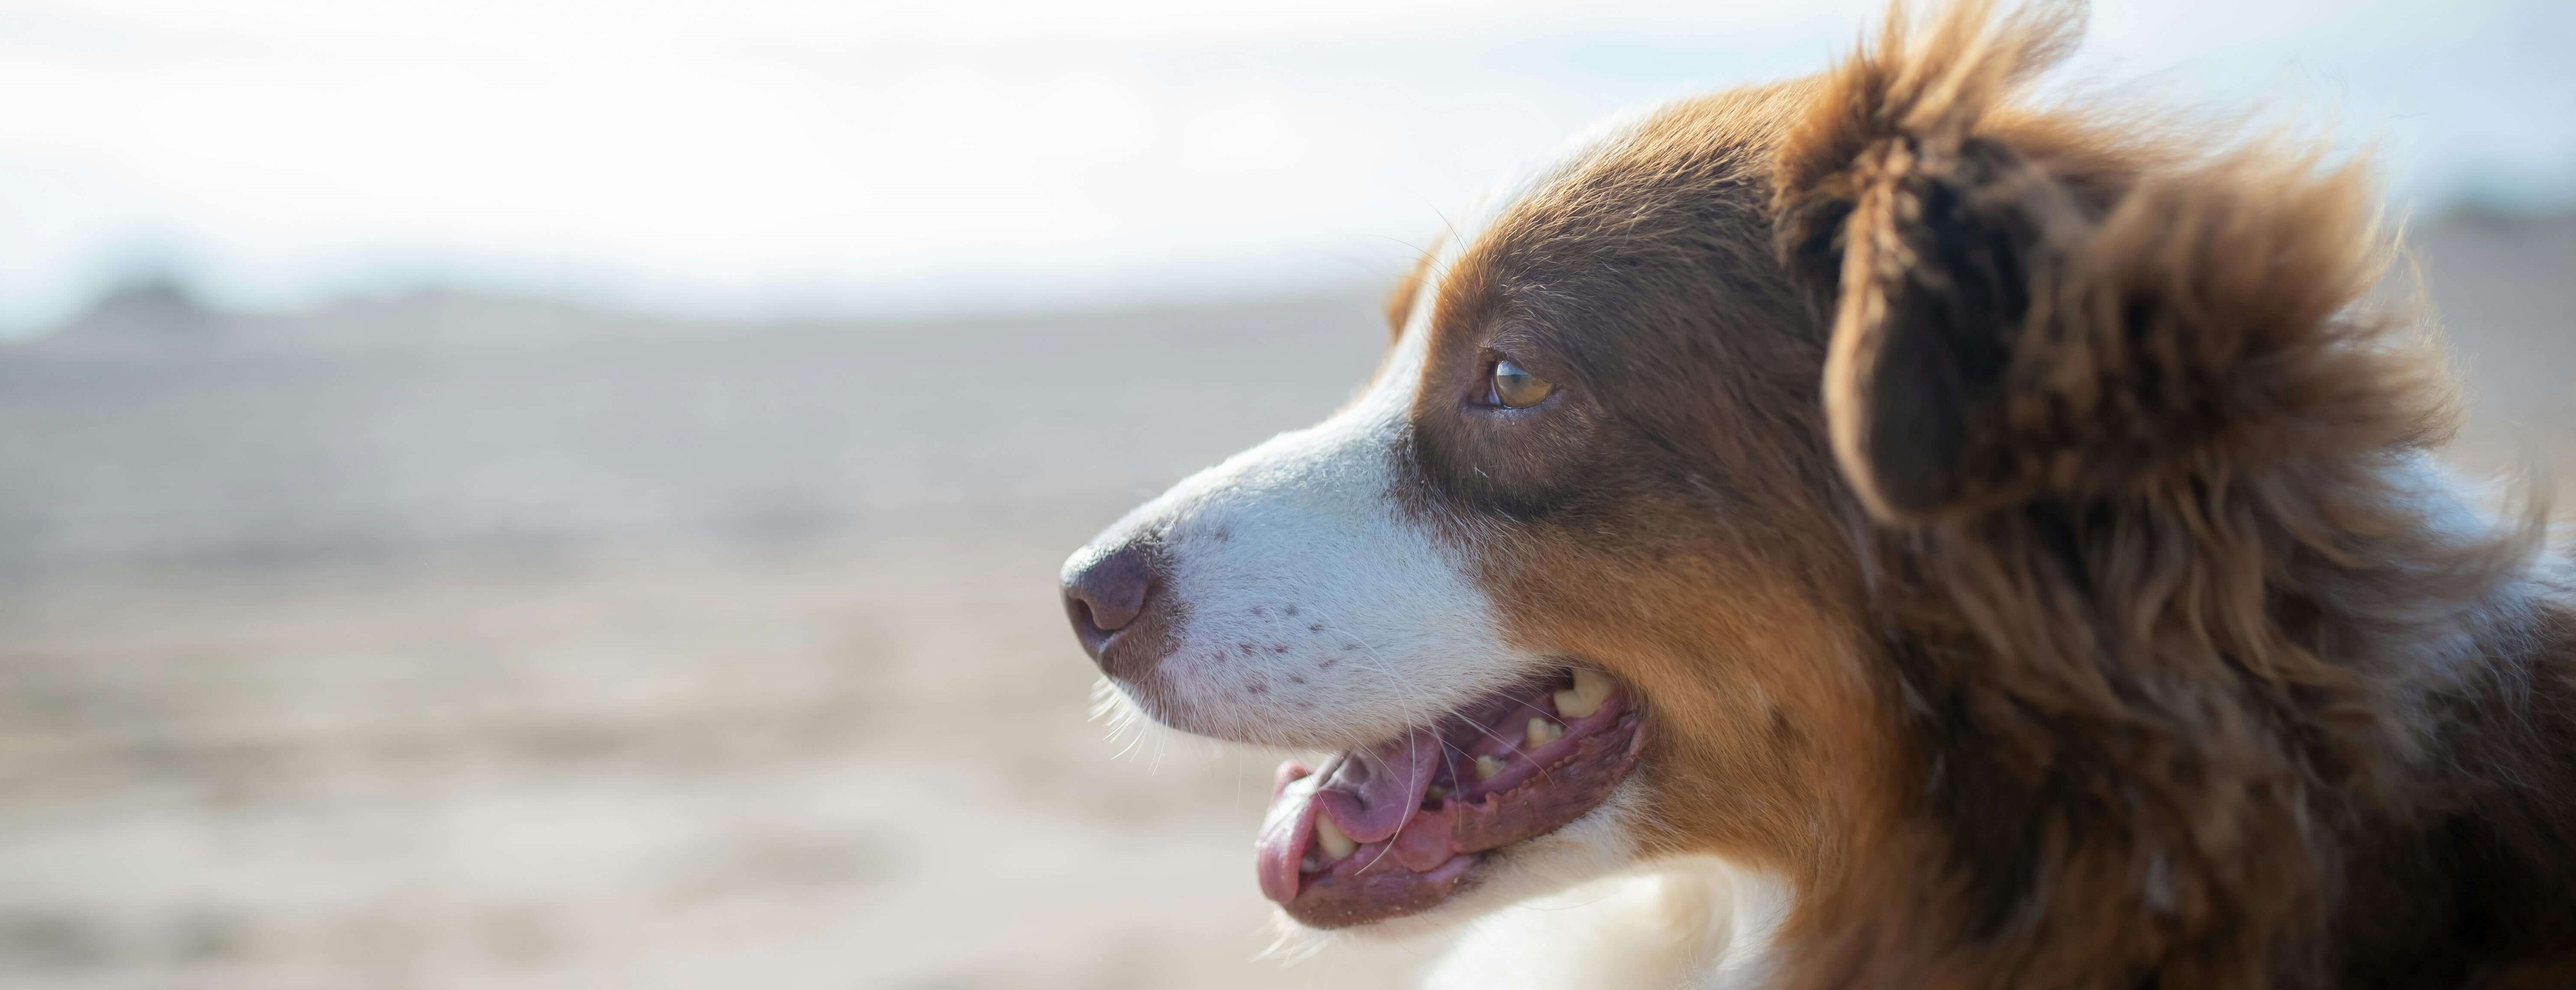
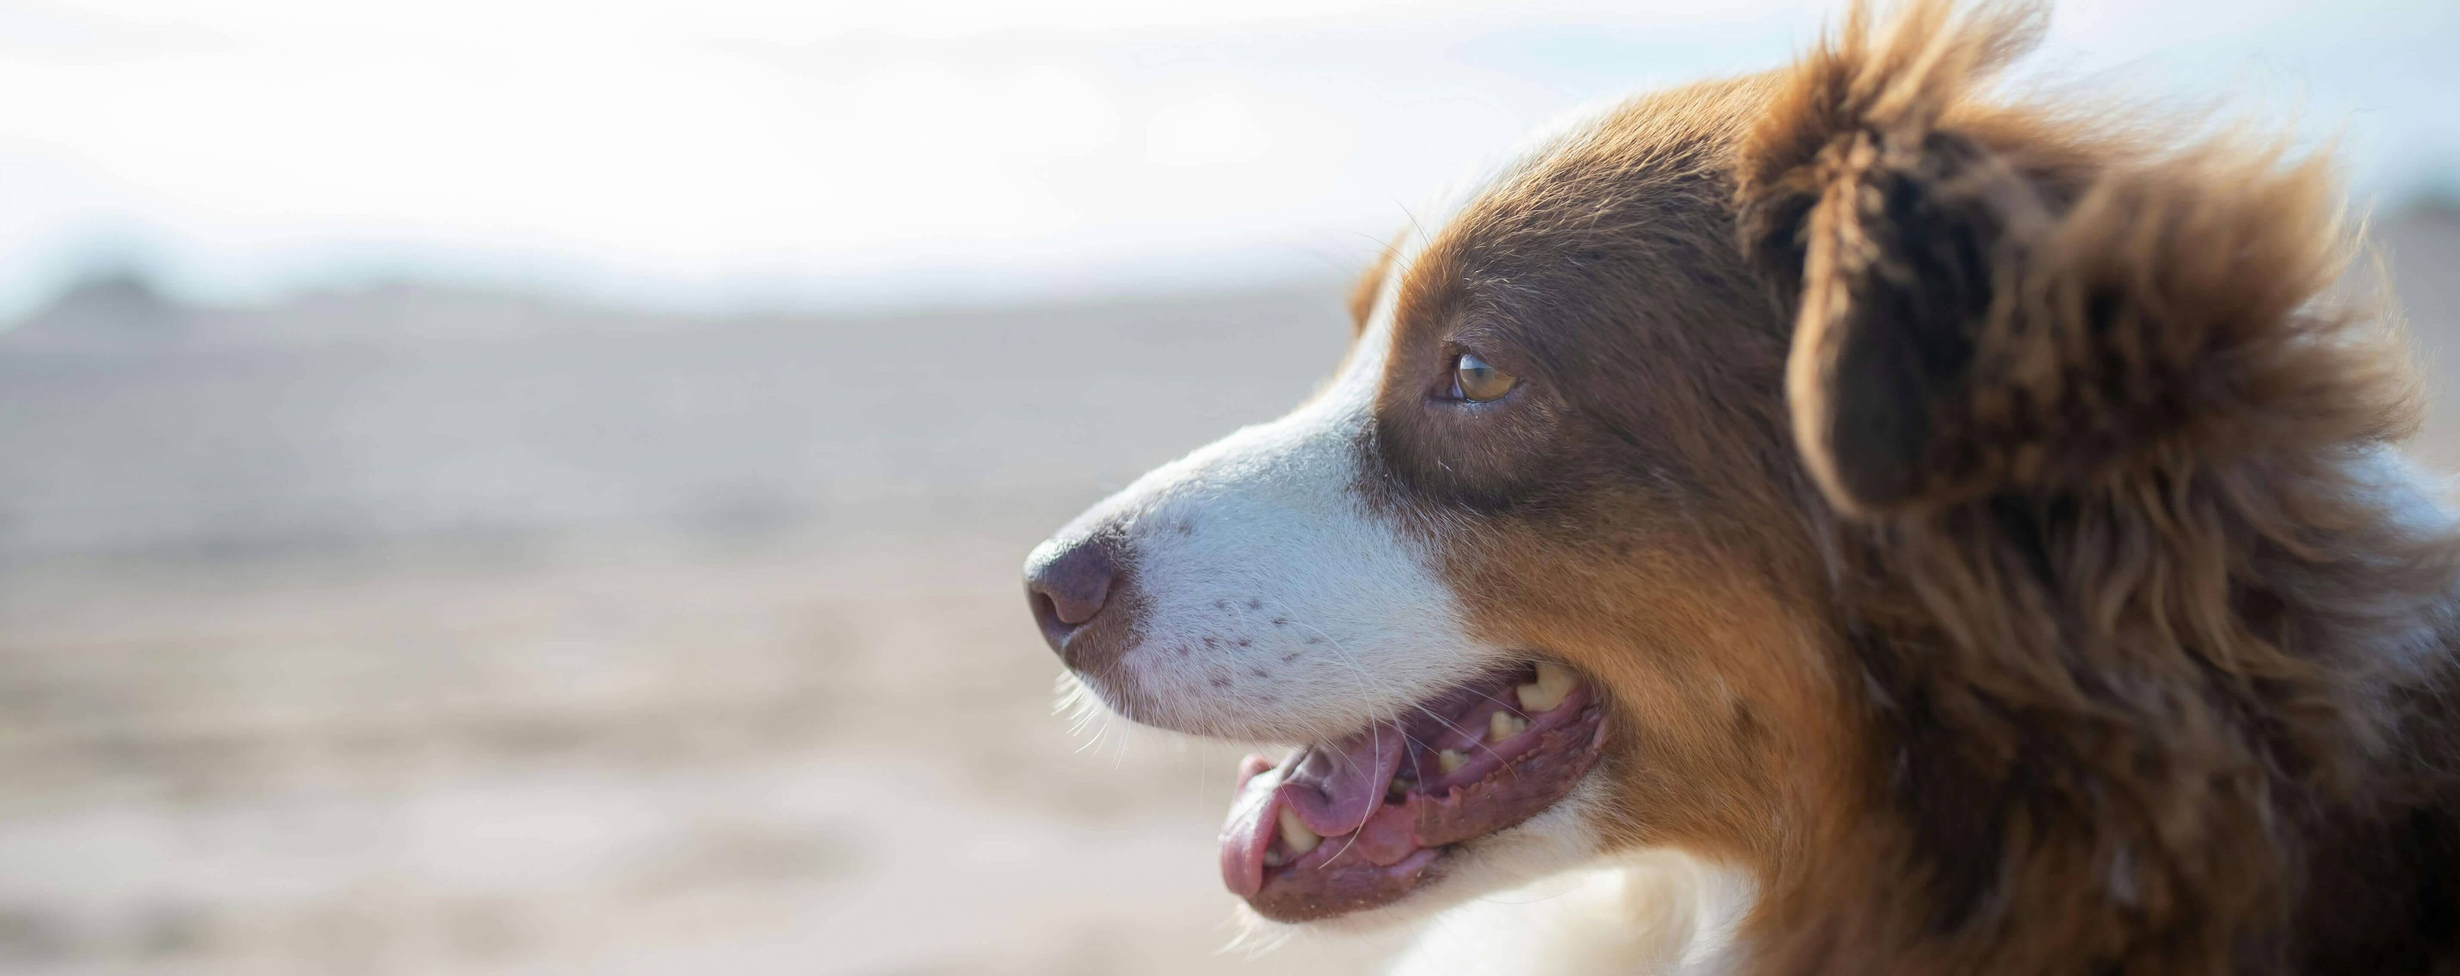
reduced image size on all img for faster load of page

diff --git a/about.html b/about.html
@@ -59,7 +59,7 @@
           first bred in California in the 1960s as a livestock herder.</p>
       </div>
       <div>
-        <img src="assets/images/pexels-valeria-boltneva-18201408_edited.jpg"
+        <img src="assets/images/brown_white_aussie.jpg"
           alt="australian shepherd with red tri color markings and brown eyes" class="aussie-images">
       </div>
       <div class="about-text">
@@ -72,7 +72,7 @@
           like most working breeds, a bored Aussie is a nightmare to live with.</p>
       </div>
       <div>
-        <img src="assets/images/pexels-adam-york-13218765_edited.jpg"
+        <img src="assets/images/black_brown_aussie.jpg"
           alt="australian shepherd with black and brown markings and brown eyes" class="aussie-images">
       </div>
       <div class="about-text">
@@ -85,7 +85,7 @@
           collar does not exceed the point at the withers. These are all distinct genetic traits and breeders need
           to understand how they are inherited.</p>
       </div>
-      <div><img src="assets/images/pexels-pexels-user-20292575_edited.jpg"
+      <div><img src="assets/images/black_merle_aussie.jpg"
           alt="australian shepherd with blue merle markings and blue eyes" class="aussie-images">
       </div>
       <div class="about-text">
